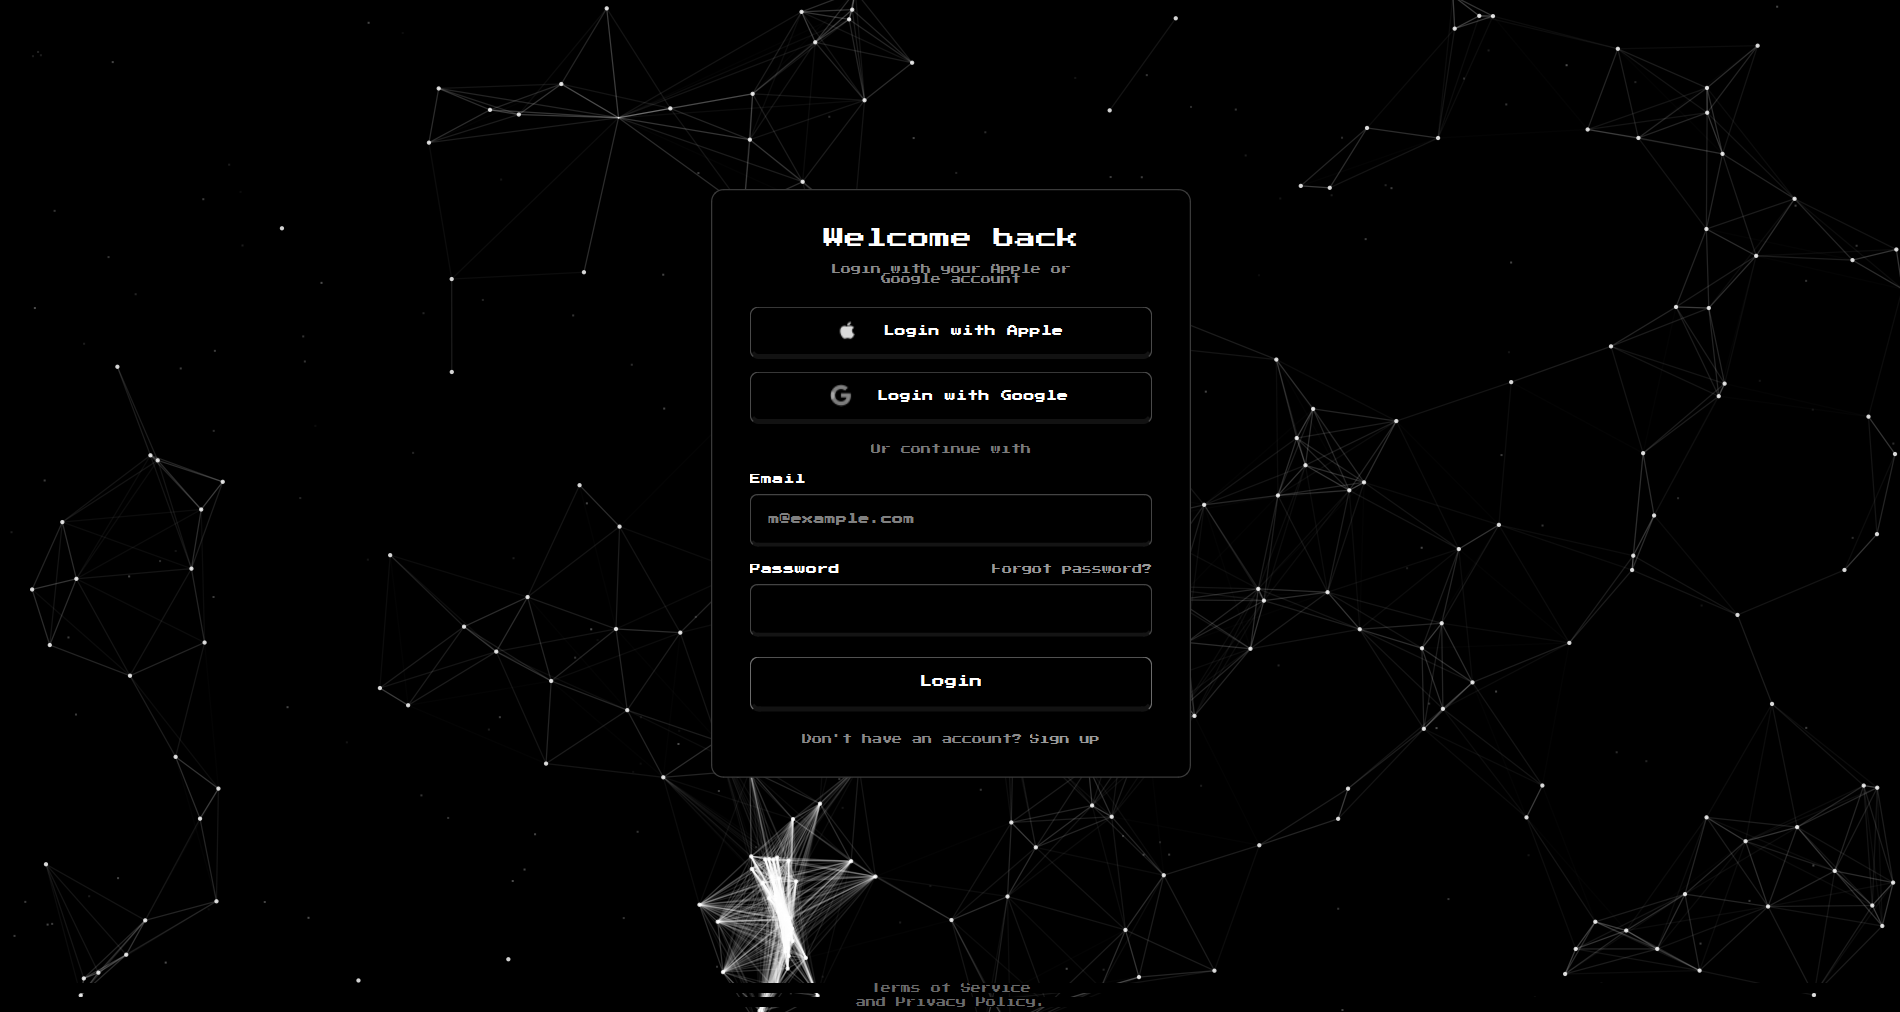
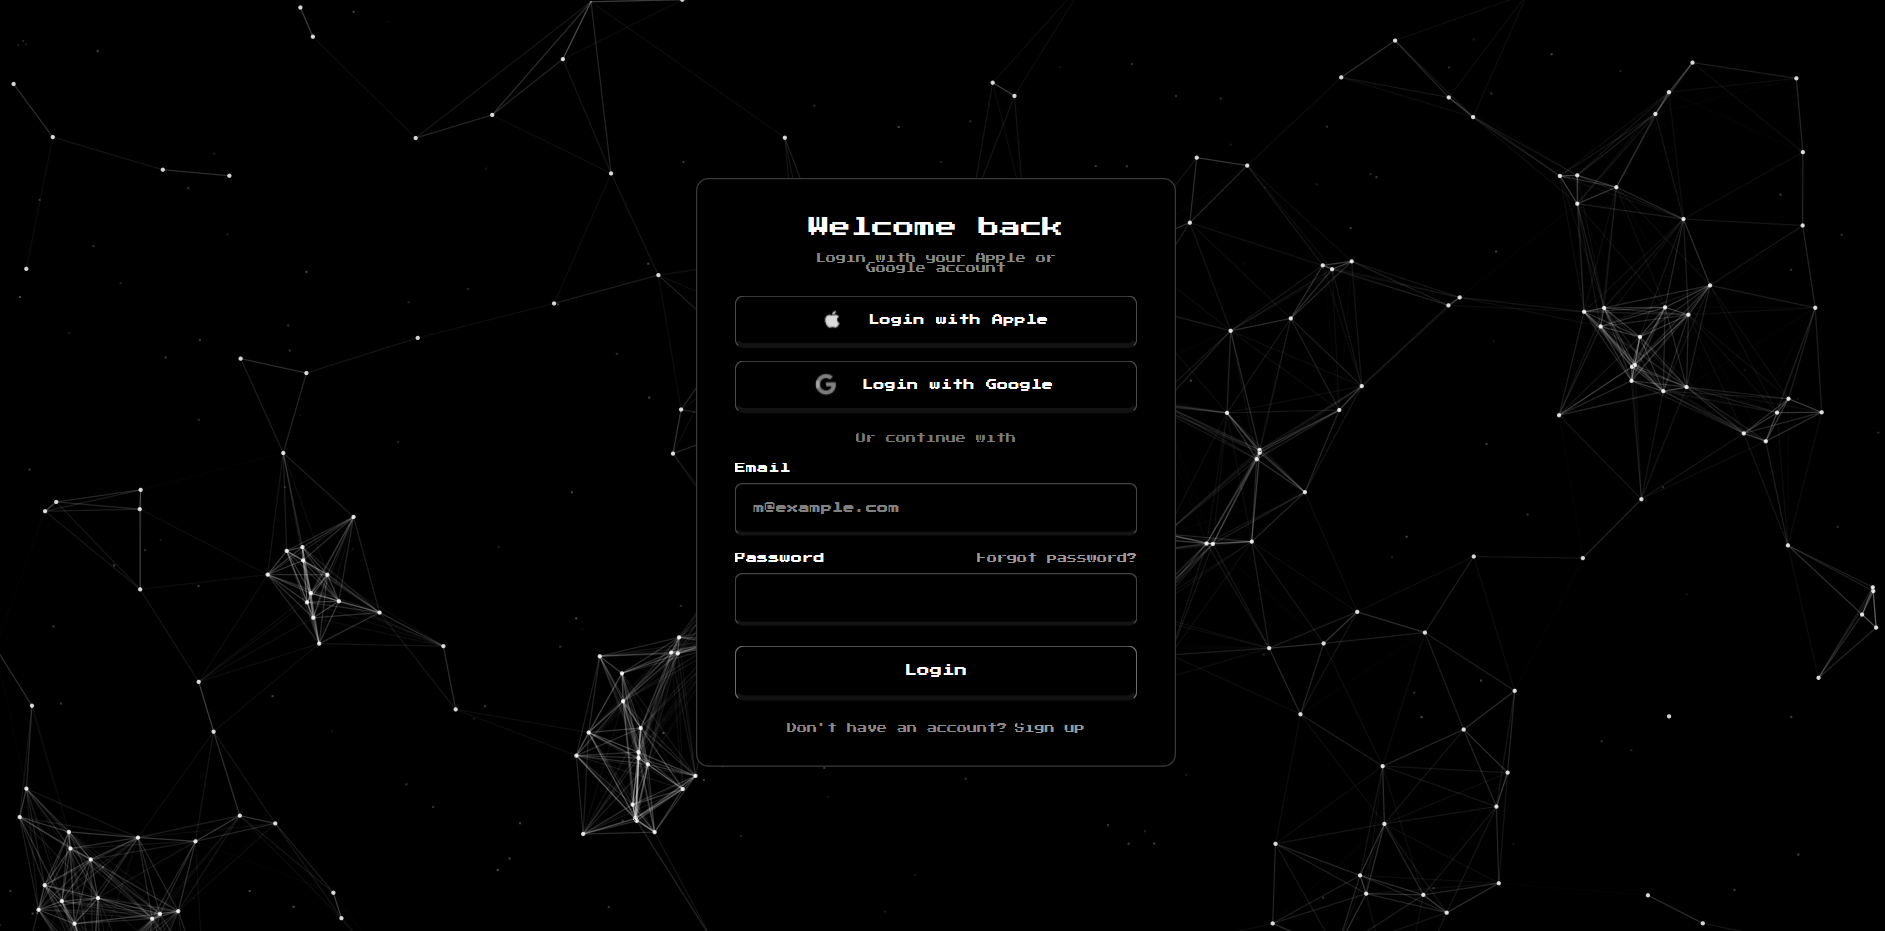
Fix cramped login subtitle spacing; update sign-in screenshot

diff --git a/app/views/auth/login_window.py b/app/views/auth/login_window.py
@@ -356,11 +356,11 @@ class LoginWindow(QMainWindow):
 
         cl.addWidget(_lbl("Welcome back", "h1", center=True))
         cl.addSpacing(12)
-        sub = _lbl("Login with your Apple or Google account", "sub", center=True)
-        sub.setWordWrap(True)
-        sub.setFixedWidth(230)
-        sub_row = QHBoxLayout(); sub_row.addStretch(); sub_row.addWidget(sub); sub_row.addStretch()
-        cl.addLayout(sub_row)
+        # two stacked lines — Press Start 2P has tight leading, so wrapping
+        # one label overlaps; separate labels give clean spacing
+        cl.addWidget(_lbl("Login with your Apple or", "sub", center=True))
+        cl.addSpacing(5)
+        cl.addWidget(_lbl("Google account", "sub", center=True))
         cl.addSpacing(18)
 
         # Apple